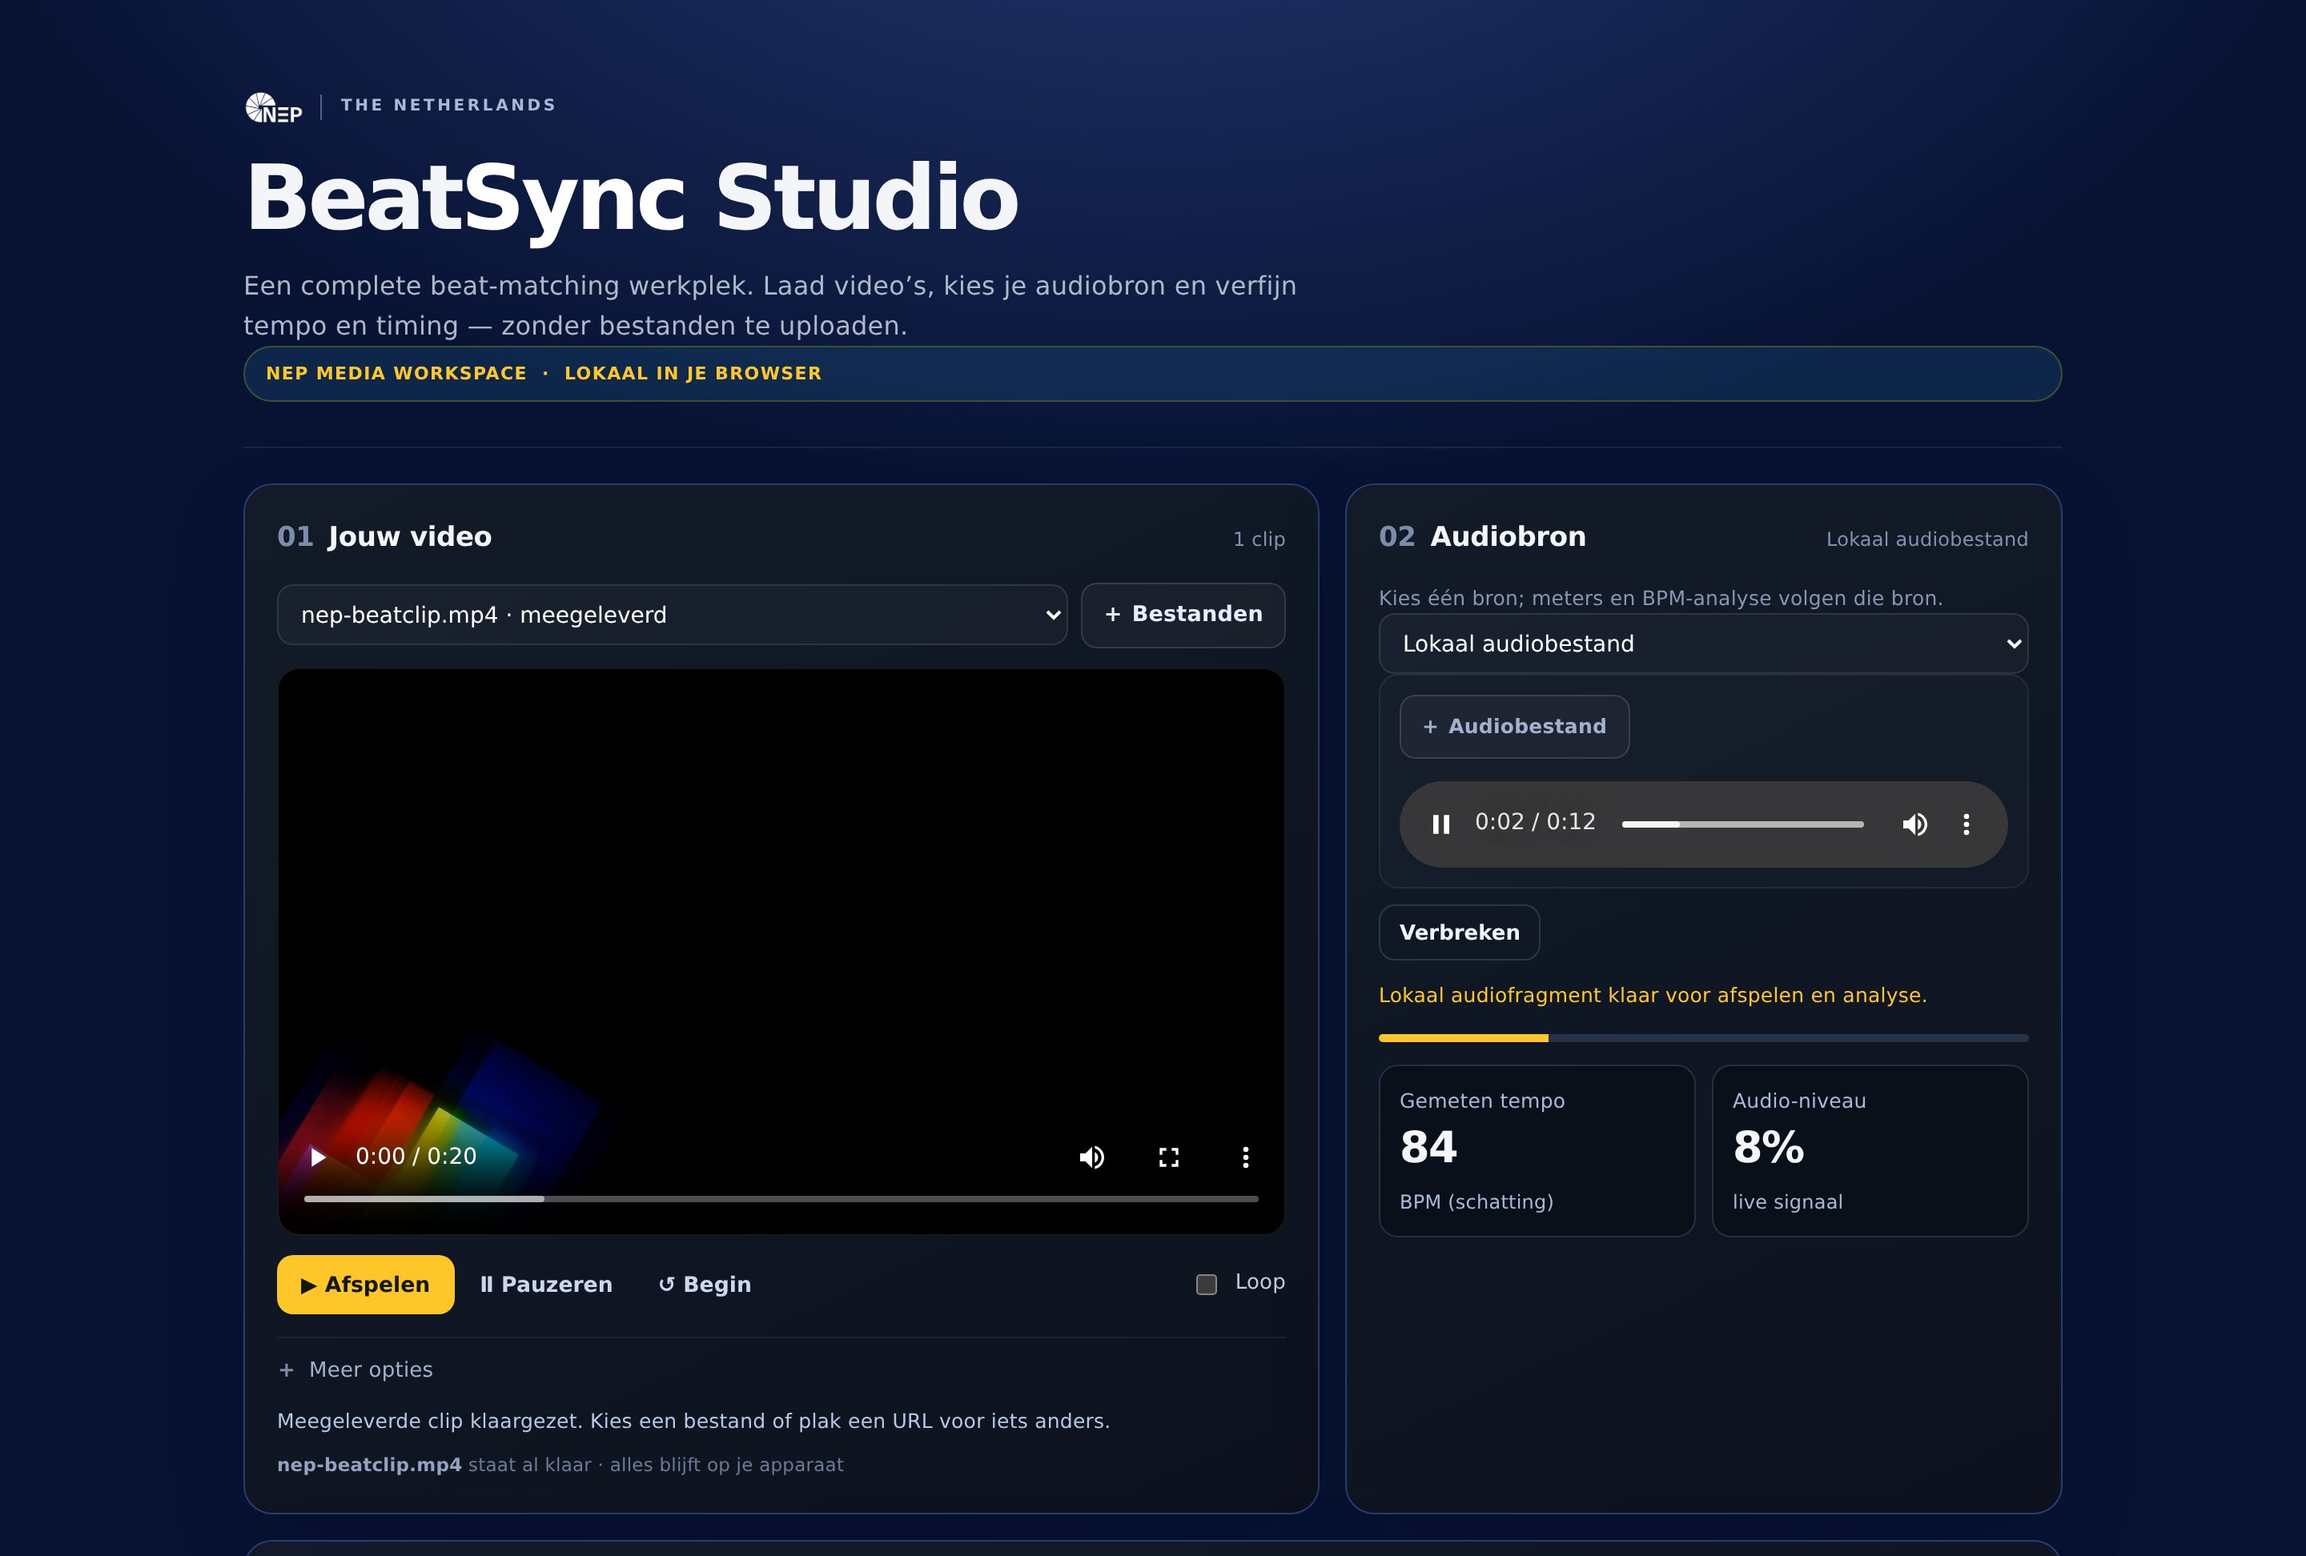
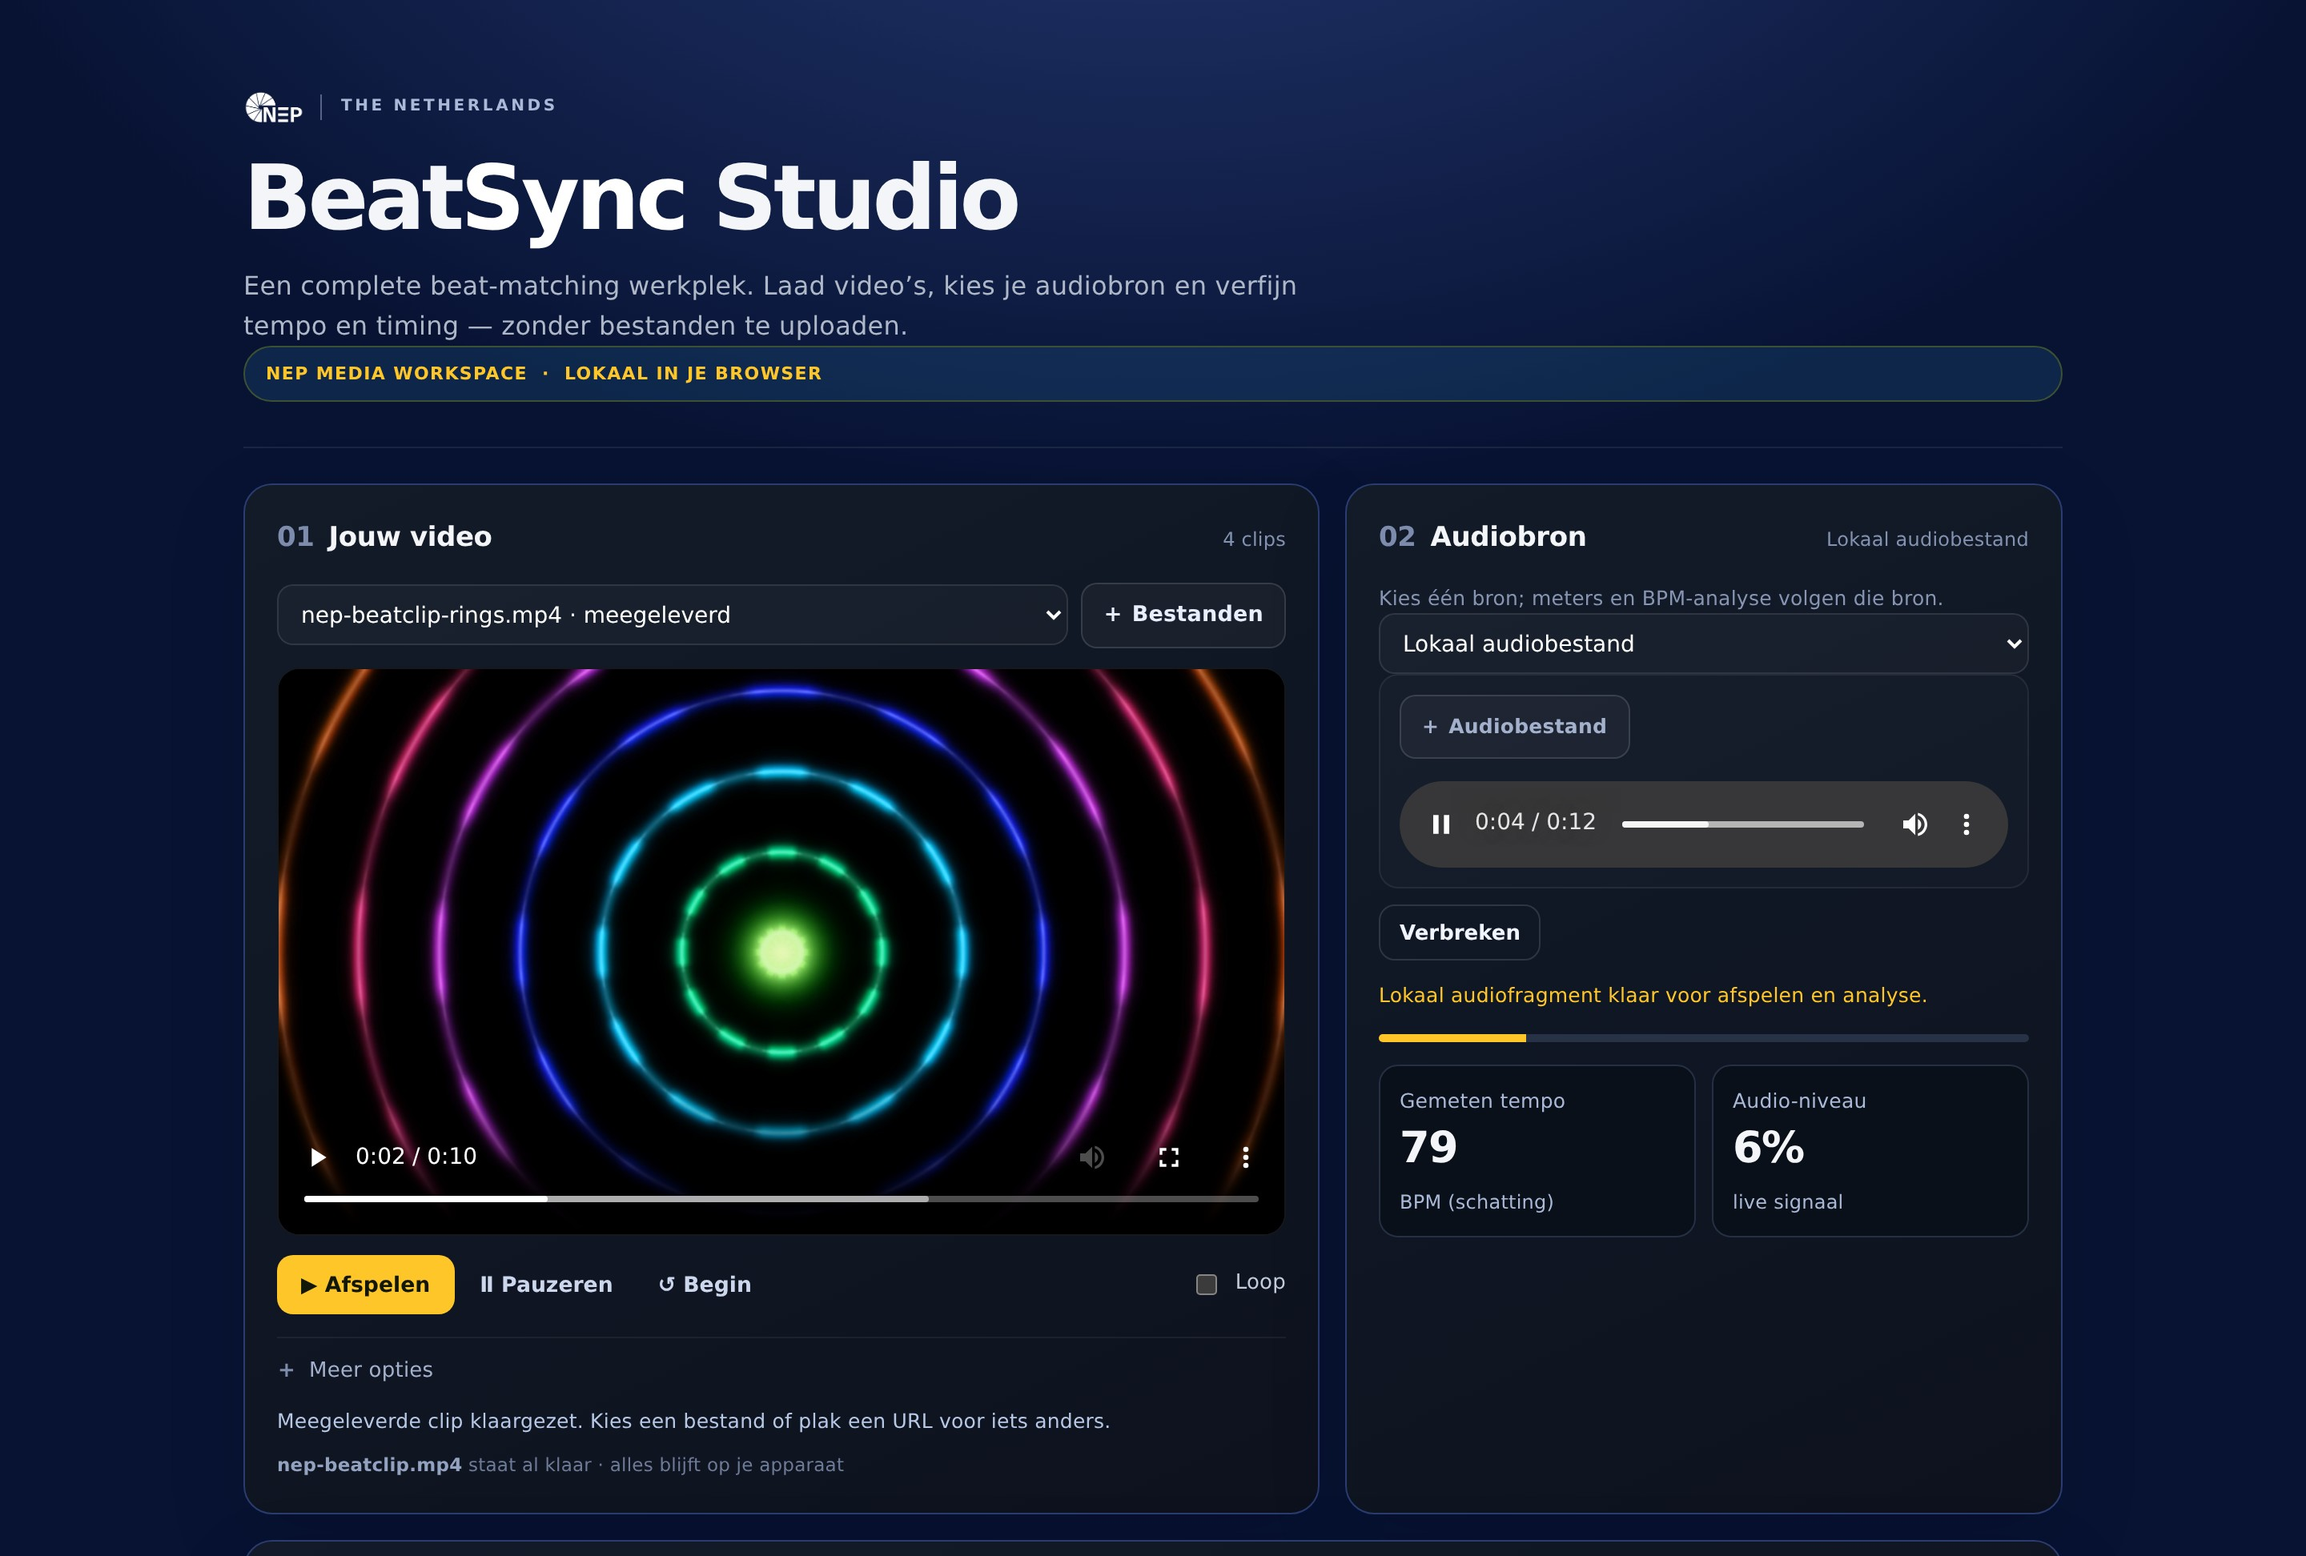
Voetnoot noemt de vier meegeleverde clips

diff --git a/index.html b/index.html
@@ -112,7 +112,7 @@ details.more select{width:100%;background:rgba(255,255,255,.03);border-color:rgb
 </details>
 
 <div class="status" id="videoStatus">Kies eerst een video.</div>
-<p class="foot"><strong>nep-beatclip.mp4</strong> staat al klaar · alles blijft op je apparaat</p>
+<p class="foot"><strong>Vier clips</strong> staan al klaar · alles blijft op je apparaat</p>
 </section>
 <section class="panel" id="panelAudio">
 <header class="panel-head"><h2><span>02</span>Audiobron</h2><div class="meta" id="audioMeta"></div></header>
